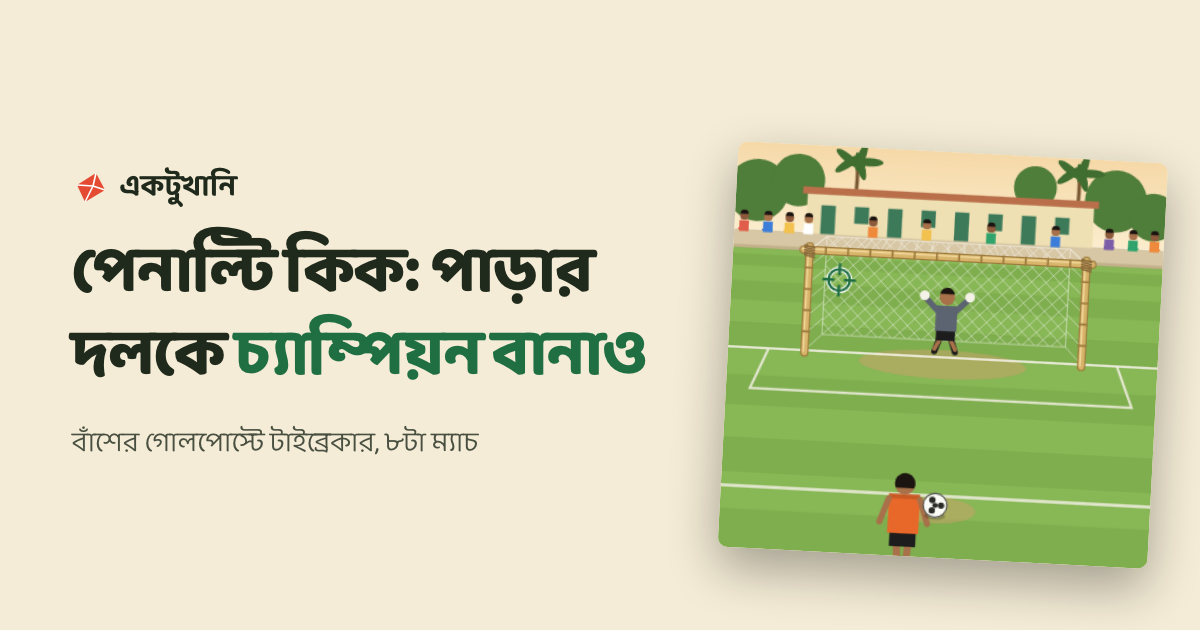
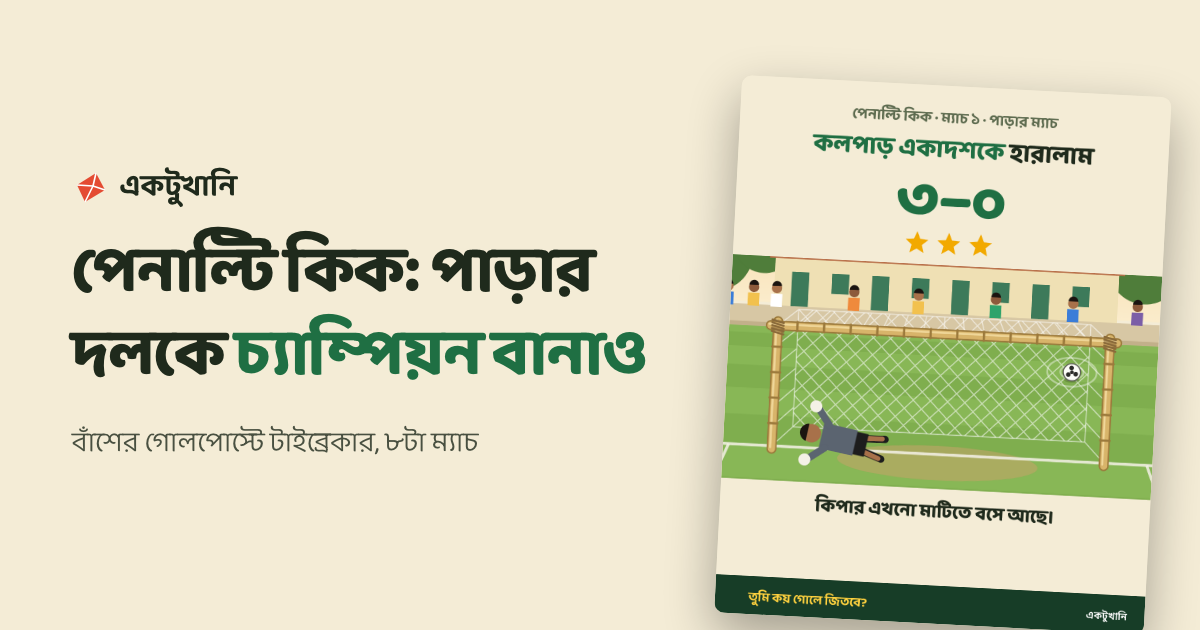
penalty: thumbnail from the result card (og demo flag)

Changed region(s): [[0.5858, 0.1508, 0.9867, 1.0]]

diff --git a/tools/penalty/components/penalty-game.tsx b/tools/penalty/components/penalty-game.tsx
@@ -231,6 +231,15 @@ export function PenaltyGame() {
     else sfx.good();
   }
 
+  /** Preview images only (`&og=1` on a link): a fixed 3–0 so the card draws without playing. Saves nothing on the phone. */
+  function demo() {
+    const kick = (side: 0 | 1, scored: boolean): Kick => ({ side, scored, result: { outcome: scored ? "goal" : "saved", bx: side ? -0.6 : 0.8, by: 0.6, keeper: 0, close: false } });
+    live.kicks = [kick(0, true), kick(1, false), kick(0, true), kick(1, false), kick(0, true), kick(1, false)];
+    setKicks(live.kicks);
+    setResult({ us: 3, them: 0, stars: 3, improved: false, sudden: false, frame: 0 });
+    setPhaseState("won");
+  }
+
   function pickSide(zone: Zone) {
     if (live.paused || (live.stage !== "ready" && live.stage !== "run")) return;
     if (live.dive !== zone) sfx.tap();
@@ -372,6 +381,7 @@ export function PenaltyGame() {
       if (!found) return;
       setFriend(found);
       startMatch(found.level, found.seed);
+      if (new URLSearchParams(window.location.hash.slice(1)).get("og") === "1") demo();
     };
     const hide = () => {
       if (!document.hidden) return;
